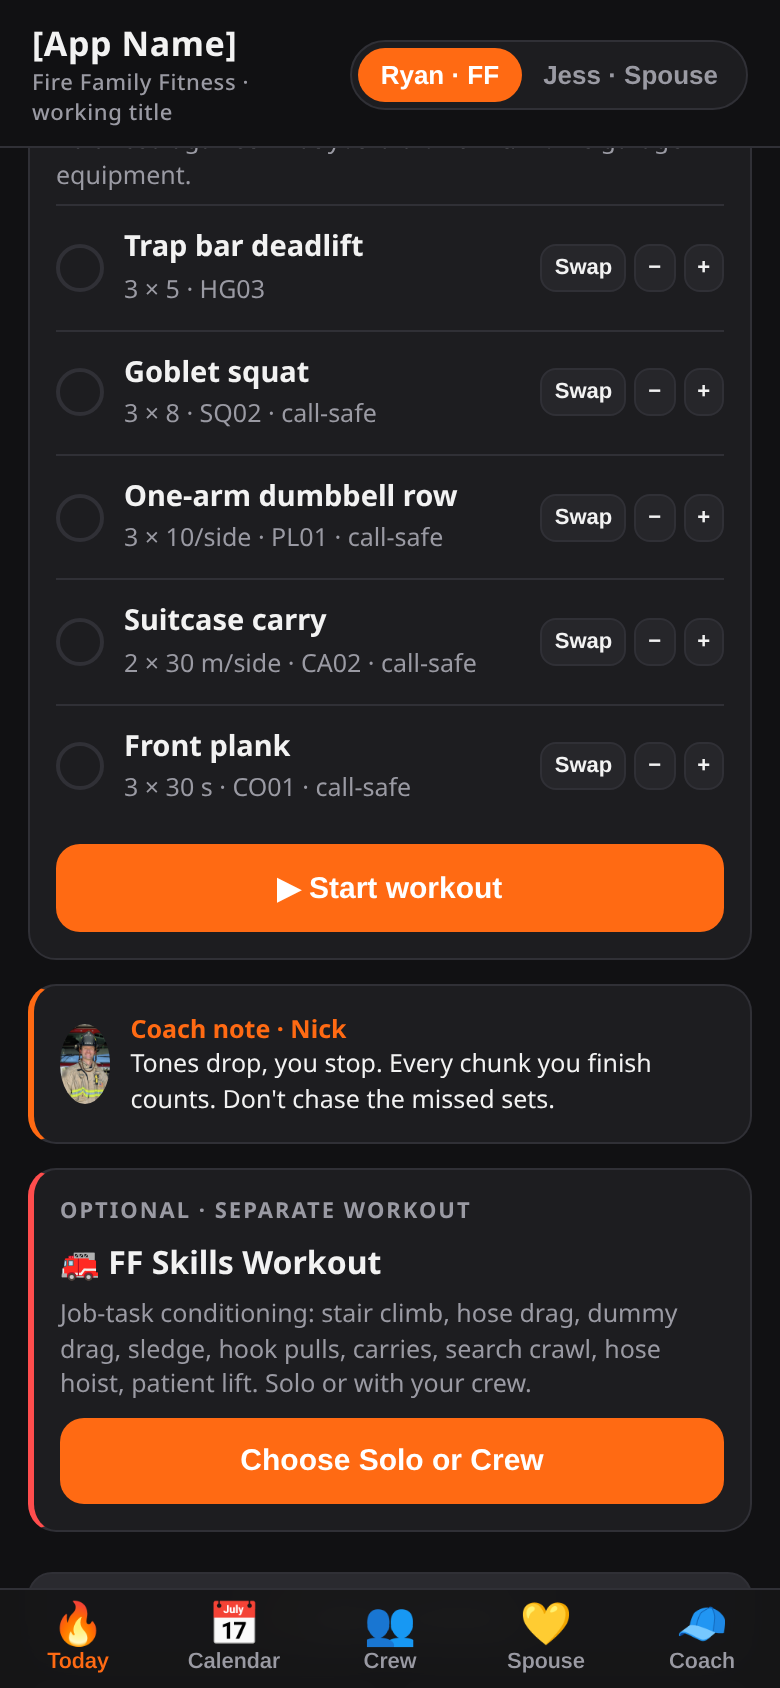
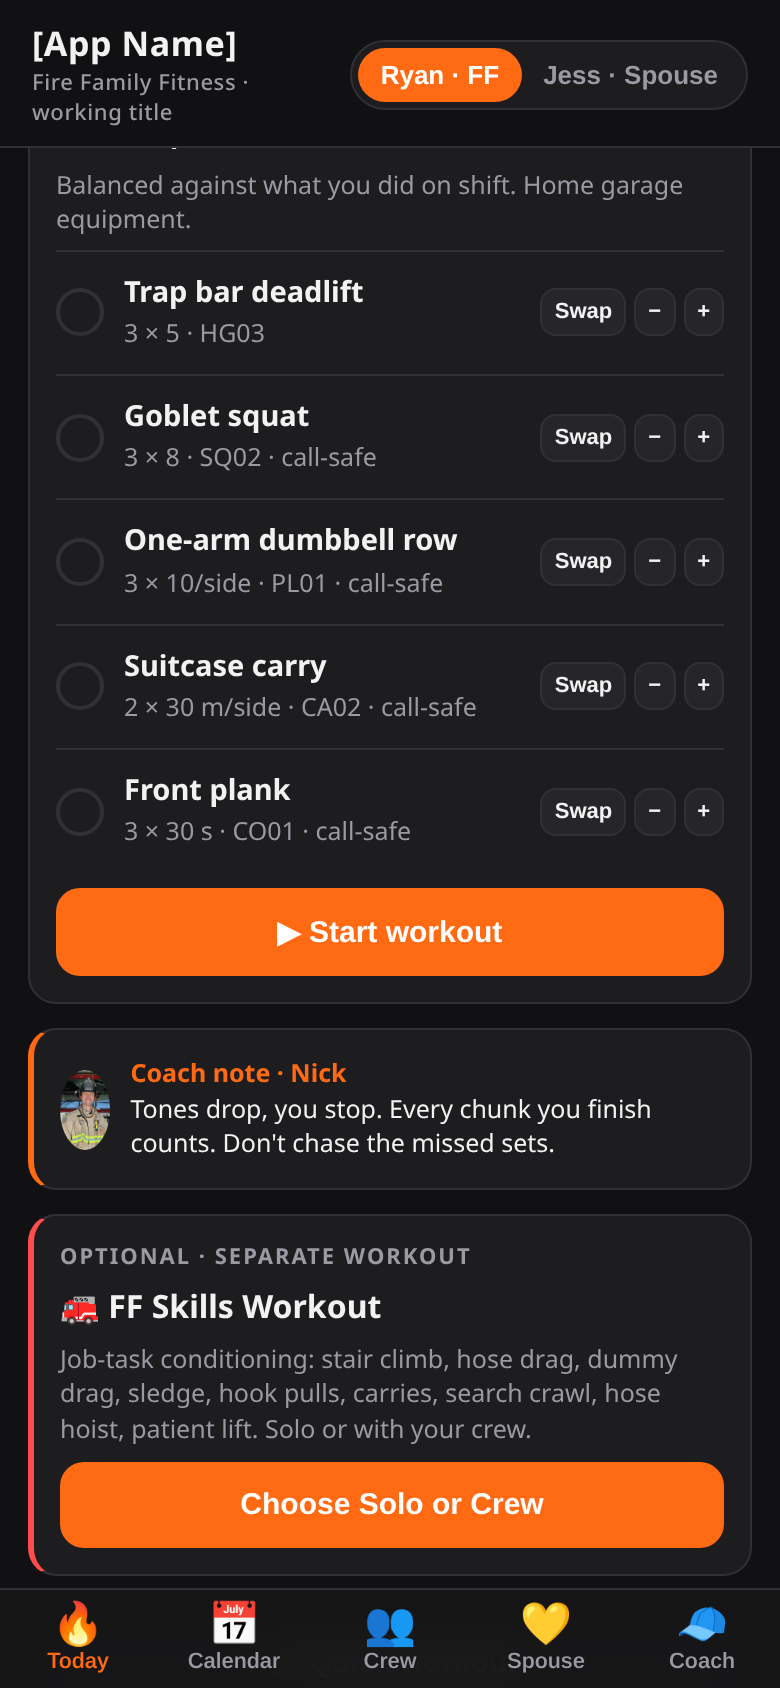
Modified Kelly = 24-day dept pattern, default for Ryan; sw v5

diff --git a/app.js b/app.js
@@ -2,7 +2,7 @@ const L=Object.fromEntries(LIB.map(e=>[e.id,e]));
 const $=s=>document.querySelector(s), M=$('#main');
 const S={ff:{mode:'Solo',m:20},p:'ryan',tab:'today',ck:{feel:4,sleep:7,calls:2,tough:false,mins:30},mods:{},done:{},sess:null,qw:{m:15,loc:'Station'},selDay:new Date().getDate()};
 const P={
-ryan:{name:'Ryan',role:'Engine FF · 48/96 · low-back history flag',ctx:'On shift · hour 4 of 48 · Station gym',
+ryan:{name:'Ryan',role:'Engine FF · Modified Kelly · low-back history flag',ctx:'On shift · hour 4 of 48 · Station gym',
  plans:{g:{t:'Call-proof chunks · functional strength',d:'Functional strength with gym equipment in 3 chunks of ~10 min. Stop anytime a call drops; finished chunks count.',x:[['HG03','3 × 5'],['SQ02','3 × 8'],['PL01','3 × 10/side'],['CA02','2 × 30 m/side'],['CO01','3 × 30 s']]},
   y:{t:'Reduced functional chunks · no max efforts',d:'Volume down ~25%. Low-back flag: trap bar deadlift swapped for glute bridge.',x:[['HG01','2 × 12'],['SQ01','2 × 8'],['PL03','2 × 15'],['CO03','2 × 8/side'],['MB02','1 × 5/side']]},
   r:{t:'Recovery day · move, breathe, sleep',d:'Rough night. No training stress today — mobility and an easy walk.',x:[['MB06','4 min'],['MB01','2 × 6/side'],['MB03','2 × 6/side'],['MB04','2 × 45 s/side'],['CD05','15 min easy']]}}},
@@ -102,22 +102,22 @@ const PATTERNS={
  '48/96':{d:[1,1,0,0,0,0],note:'48 on, 96 off · 6-day cycle'},
  '24/72':{d:[1,0,0,0],note:'24 on, 72 off · 4-day cycle'},
  'Kelly':{d:[1,0,1,0,1,0,0,0,0],note:'on-off-on-off-on-off-off-off-off · 9-day cycle',plat:true},
- 'Modified Kelly':{d:[1,0,1,0,1,0,0,0,0],note:'24 on, 24 off, 24 on, 24 off, 24 on, 96 off · 9-day cycle',plat:true},
+ 'Modified Kelly':{d:[1,0,1,0,1,0,1, 0,0,0,0, 1,0,1,0,1,0,1, 0,0,0,0,0,0],note:'4 shifts (24 off between), 4 days off, 4 shifts (24 off between), 6 days off · 24-day cycle',plat:true,off:{A:0,B:8,C:16}},
  '24/48':{d:[1,0,0],note:'24 on, 48 off · 3-day cycle'},
  'Custom':{d:null,note:'Tap days to set your own cycle'}};
-const PLAT_OFFSET={A:0,B:3,C:6}; // days each platoon is shifted from A (Kelly-type patterns)
+const PLAT_OFFSET={A:0,B:3,C:6}; // default days each platoon is shifted from A; a pattern can override with off:{A,B,C}. UNCONFIRMED: adjust to match the department.
 const iso=d=>d.getFullYear()+'-'+String(d.getMonth()+1).padStart(2,'0')+'-'+String(d.getDate()).padStart(2,'0');
-const SCH=Object.assign({rot:'48/96',start:'2026-10-05',plat:'A',custom:[1,1,0,0,0,0]},JSON.parse(localStorage.ffSched||'{}'));
+const SCH=Object.assign({rot:'Modified Kelly',start:'2026-10-05',plat:'A',custom:[1,1,0,0,0,0]},JSON.parse(localStorage.ffSched||'{}'));
 const saveSch=()=>localStorage.ffSched=JSON.stringify(SCH);
 const cyc=()=>SCH.rot=='Custom'?SCH.custom:PATTERNS[SCH.rot].d;
-function onShift(date){const c=cyc(),st=new Date(SCH.start+'T00:00');const dd=Math.round((new Date(iso(date)+'T00:00')-st)/864e5)-(PATTERNS[SCH.rot].plat?PLAT_OFFSET[SCH.plat]:0);return !!c[((dd%c.length)+c.length)%c.length]}
+function onShift(date){const c=cyc(),st=new Date(SCH.start+'T00:00');const dd=Math.round((new Date(iso(date)+'T00:00')-st)/864e5)-(PATTERNS[SCH.rot].plat?(PATTERNS[SCH.rot].off||PLAT_OFFSET)[SCH.plat]:0);return !!c[((dd%c.length)+c.length)%c.length]}
 function dayMode(date){const on=onShift(date),y=new Date(date);y.setDate(y.getDate()-1);return on?'on':onShift(y)?'post':'off'}
 const patStr=c=>c.map(x=>x?'<b style="color:#ffb48a">ON</b>':'<span class="mut">off</span>').join(' · ');
 function scheduleSheet(after){const draw=()=>{const P2=PATTERNS[SCH.rot],c=cyc();
  s.innerHTML=`<div class="grab" data-close></div><h2>Your shift schedule</h2><div class="lbl">Rotation</div>
  <div class="chips">${Object.keys(PATTERNS).map(k=>`<button class="chip ${SCH.rot==k?'on':''}" data-rot="${k}">${k}</button>`).join('')}</div>
  <div class="lbl" style="margin-top:12px">First shift day (start of cycle)</div><input type="date" id="sd" value="${SCH.start}" style="width:100%;padding:11px;border-radius:10px;border:1px solid var(--line);background:#26262a;color:var(--tx);font-size:16px">
- ${P2.plat?`<div class="lbl" style="margin-top:12px">Platoon / shift</div><div class="chips">${['A','B','C'].map(k=>`<button class="chip ${SCH.plat==k?'on':''}" data-plat="${k}">${k} shift</button>`).join('')}</div><div class="small mut">B starts 3 days after A, C 6 days after A.</div>`:''}
+ ${P2.plat?`<div class="lbl" style="margin-top:12px">Platoon / shift</div><div class="chips">${['A','B','C'].map(k=>`<button class="chip ${SCH.plat==k?'on':''}" data-plat="${k}">${k} shift</button>`).join('')}</div><div class="small mut">${(()=>{const o=P2.off||PLAT_OFFSET;return 'B starts '+o.B+' days after A, C '+o.C+' days after A'})()} · platoon offsets unconfirmed and adjustable.</div>`:''}
  <div class="card" style="margin-top:12px"><div class="lbl">Pattern · ${P2.note}</div>${SCH.rot=='Custom'?`<div class="chips">${c.map((x,i)=>`<button class="chip ${x?'on':''}" data-cd="${i}">D${i+1} ${x?'ON':'off'}</button>`).join('')}</div><div class="row" style="margin-top:8px"><button class="btn sec" data-cl="-1">− Day</button><button class="btn sec" data-cl="1">+ Day</button></div>`:`<div class="small">${patStr(c)}</div>`}
  <div class="lbl" style="margin-top:10px">Next 14 days</div><div class="small">${[...Array(14)].map((_,i)=>{const d=new Date();d.setDate(d.getDate()+i);return `<span style="display:inline-block;width:13%;text-align:center;margin:2px 0;padding:3px 0;border-radius:6px;background:${onShift(d)?'#5a1f0b':'#222'}">${d.getMonth()+1}/${d.getDate()}</span>`}).join(' ')}</div></div>
  <button class="btn" data-save>Save schedule</button>`;

diff --git a/sw.js b/sw.js
@@ -1,4 +1,4 @@
-const C='firefit-v4',F=['./','index.html','app.js','library.js','manifest.webmanifest','img/nick.jpg','img/icon-192.png','img/icon-512.png'];
+const C='firefit-v5',F=['./','index.html','app.js','library.js','manifest.webmanifest','img/nick.jpg','img/icon-192.png','img/icon-512.png'];
 self.addEventListener('install',e=>{e.waitUntil(caches.open(C).then(c=>c.addAll(F)));self.skipWaiting()});
 self.addEventListener('activate',e=>e.waitUntil(self.clients.claim()));
 self.addEventListener('fetch',e=>e.respondWith(caches.match(e.request).then(r=>r||fetch(e.request))));
